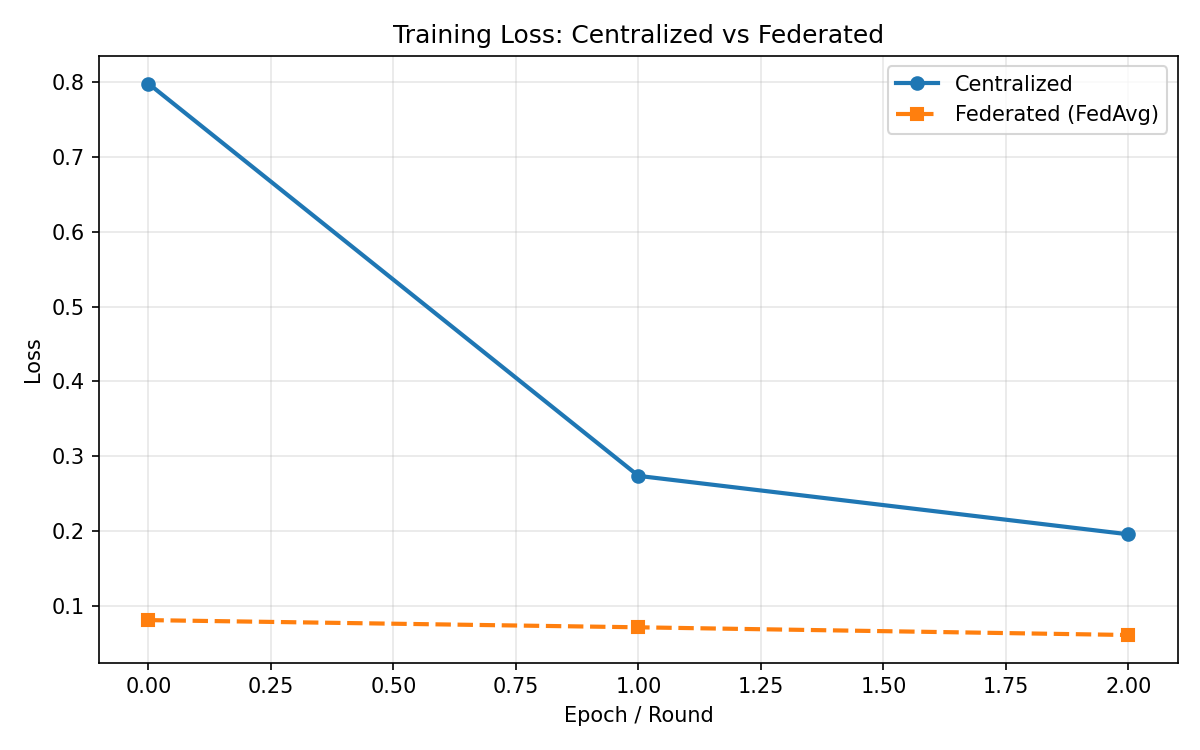
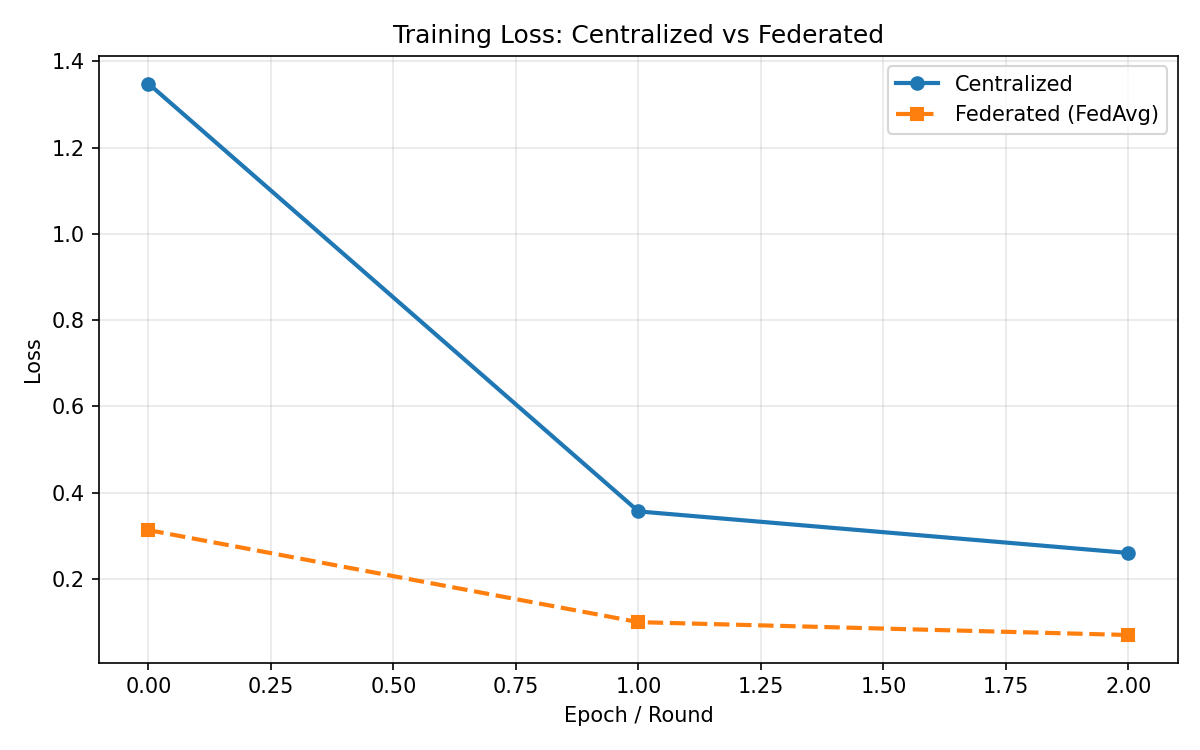
found the issue
for loss we were returning the last loss in a round for a client.

ex: if a client has:
R1: 1.3    R2:  0.21           R3: 0.1
      0.8.           0.2                0.09
      0.22          0.18                0.08

then there is not a big change between the last losses (0.22 and 0.8)

To address this, the graph will show an average for each round instead of the minimum, so there is an observable difference

IMPORTANT NOTE: If FL data disribution is IID then it would be quite good from the beginning. If it it more skewed, it will compare more nicely to ML in graph

diff --git a/src/client_training.py b/src/client_training.py
@@ -96,7 +96,7 @@ def run_fl(number_of_rounds, number_of_clients, epochs, global_model, client_tra
                                              number_of_epochs=epochs, lr=0.1)  # train it
             client_state_dictionary.append(weights)  # store the weights
             number_of_samples.append(len(client_training_loaders[client].dataset))  # store number of samples
-            round_losses.append(losses[-1])
+            round_losses.append(sum(losses) / len(losses))  # avg over epochs for this client
         # aggregate
         round_loss = sum(round_losses) / len(round_losses)
         global_losses.append(round_loss)  # average the loss for the whole round
@@ -113,4 +113,4 @@ def run_fl(number_of_rounds, number_of_clients, epochs, global_model, client_tra
 
     plot_loss(global_losses)
     plot_acc(global_val_accuracies)
-    return losses, global_val_accuracies
+    return global_losses, global_val_accuracies

diff --git a/src/overlay/comparison_overlay.py b/src/overlay/comparison_overlay.py
@@ -29,13 +29,13 @@ mnist_testset = datasets.MNIST(root = './data', train = False, download = True, 
 # a CNN with 2 layers: Layer1-> Relu->Pool->Layer2->...->Flatten->Fully connected->Output
 gl_model = CNN()
 model = CNN()
-NUMBER_OF_CLIENTS = 3
+NUMBER_OF_CLIENTS = 5
 # %%
 # Data Loaders
 client_training_loaders = create_dirichlet_client_loaders(number_of_clients = NUMBER_OF_CLIENTS,
                                                           mnist_trainset = mnist_trainset,
-                                                          alpha = 10)
-train_loader = DataLoader(full_mnist_trainset, batch_size = 64, shuffle = True)
+                                                          alpha = 0.5)
+train_loader = DataLoader(mnist_trainset, batch_size = 64, shuffle = True)
 ###
 # this will show what digits each client has
 debug_non_iid_split(client_training_loaders)
